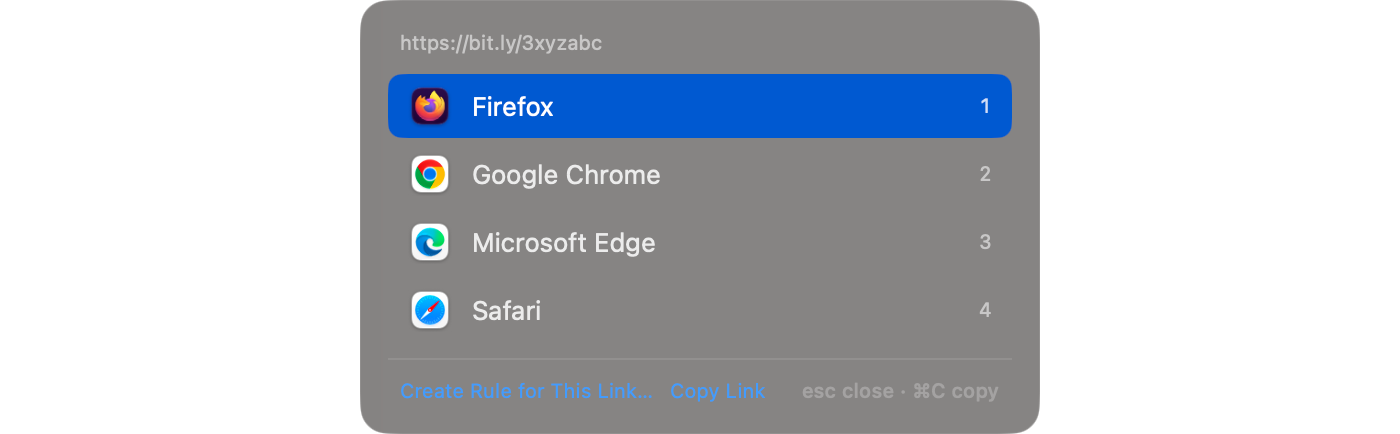
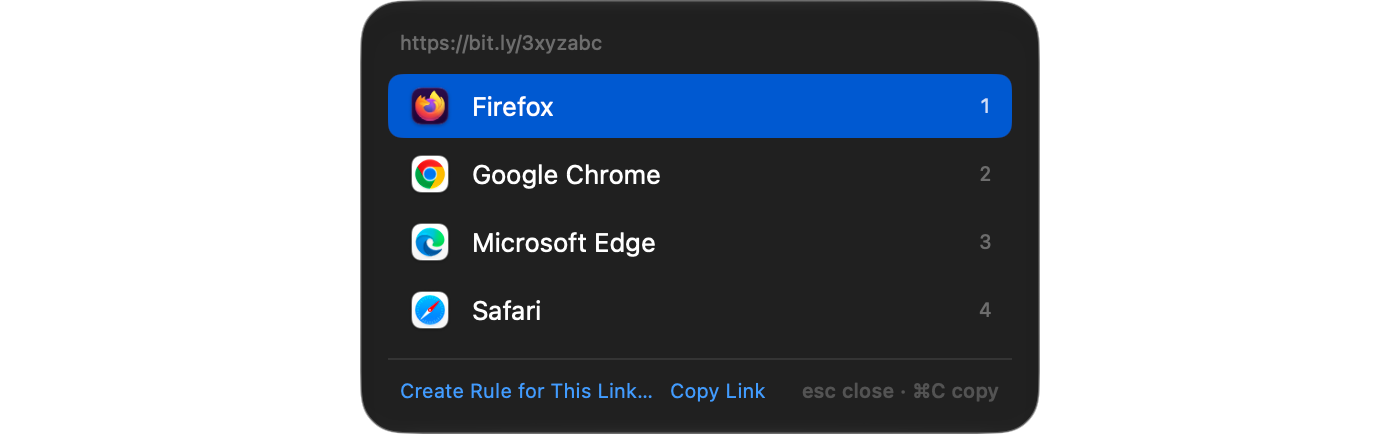
feat(picker): Liquid Glass on macOS 26+ instead of the custom frosted background (#38)
* feat(picker): Liquid Glass on macOS 26+ instead of the custom frosted background

The picker drew its own .hudWindow material, and macOS never turns a custom
background into glass, so after 0.11.2 it was the one surface still in the
old style. On 26+ it now uses .glassEffect(.regular) in the same rounded
shape. That follows the transparency setting and draws its own edge, so
the hairline stroke goes. Before 26 the background is unchanged.

The clip after the glass is needed. Without it, a faint rectangle fills the
borderless window outside the glass, and the window shadow takes its square
outline at the corners. Glass draws no shadow of its own, so hasShadow
doesn't double up.

The selection tile keeps its own 7 pt radius. Making it concentric with the
panel resolves to 14 - 14 = 0 at this padding, so ConcentricRectangle could
only fall back to its 7 pt minimum and would change no pixels.

Refs #35

Claude-Session: https://claude.ai/code/session_01PoL3aYKcna6G3stD5VVgbN

* feat(picker): 21 pt glass corners, concentric with the selection tiles

On 26+ the panel's radius is panelPadding + rowCornerRadius (14 + 7). The
tiles' 7 pt corners sit 14 pt in from the panel's sides, so they now
follow its curve. ConcentricRectangle would resolve to the same 7 pt
there, so the tiles keep their RoundedRectangle. Before 26 the panel keeps
its 14 pt radius.

Closes #35

Claude-Session: https://claude.ai/code/session_01PoL3aYKcna6G3stD5VVgbN
[…]

diff --git a/Sources/JunctionApp/PickerPanelController.swift b/Sources/JunctionApp/PickerPanelController.swift
@@ -636,12 +636,7 @@ private struct PickerView: View {
         .padding(Metrics.panelPadding)
         .frame(width: panelWidth)
         .frame(maxHeight: maximumHeight)
-        .background(VisualEffectView(material: .hudWindow))
-        .clipShape(RoundedRectangle(cornerRadius: Metrics.panelCornerRadius, style: .continuous))
-        .overlay(
-            RoundedRectangle(cornerRadius: Metrics.panelCornerRadius, style: .continuous)
-                .strokeBorder(Color(nsColor: .separatorColor), lineWidth: 0.5)
-        )
+        .panelSurface()
         .background(KeyCatcher(
             count: choices.count,
             columns: columns,
@@ -725,6 +720,27 @@ private struct PickerView: View {
             }
         }
         .frame(width: cellWidth, height: cellHeight)
+    }
+}
+
+private extension View {
+    /// The panel is borderless and clear, so this shape is the window. macOS never turns a
+    /// custom background into Liquid Glass, so on 26+ ask for glass, which also follows the
+    /// transparency setting and draws its own edge.
+    @ViewBuilder func panelSurface() -> some View {
+        if #available(macOS 26, *) {
+            // Concentric with the selection tiles, whose corners sit `panelPadding` in.
+            let shape = RoundedRectangle(cornerRadius: Metrics.panelPadding + Metrics.rowCornerRadius, style: .continuous)
+            // Without the clip a faint rectangle fills the window outside the glass, and the
+            // window shadow takes its square outline at the corners.
+            glassEffect(.regular, in: shape)
+                .clipShape(shape)
+        } else {
+            let shape = RoundedRectangle(cornerRadius: Metrics.panelCornerRadius, style: .continuous)
+            background(VisualEffectView(material: .hudWindow))
+                .clipShape(shape)
+                .overlay(shape.strokeBorder(Color(nsColor: .separatorColor), lineWidth: 0.5))
+        }
     }
 }
 

diff --git a/CHANGELOG.md b/CHANGELOG.md
@@ -13,6 +13,7 @@ shape matters:
 ## Unreleased
 
 - Changed: Settings now looks like System Settings, with a sidebar of sections beside the one you're in, in a window you can resize to give your rules more room. Rules are turned on and off with switches, and the + for a new rule is at the top of the window.
+- Changed: On macOS 26 and later, the browser picker is Liquid Glass, like the rest of your Mac, and follows your Mac's transparency setting. Before, it kept the older frosted look, even after 0.11.2 brought Liquid Glass to the rest of Junction.
 - Fixed: If your config file is a link to a file that isn't there yet when Junction starts (dotfiles still syncing at login, for example), Junction now picks up your rules even when the file shows up while Junction is still starting. Before, it could miss that moment and keep the menu-bar warning and the default rules until you next edited the file.
 
 ## 0.11.2 — 2026-11-10
